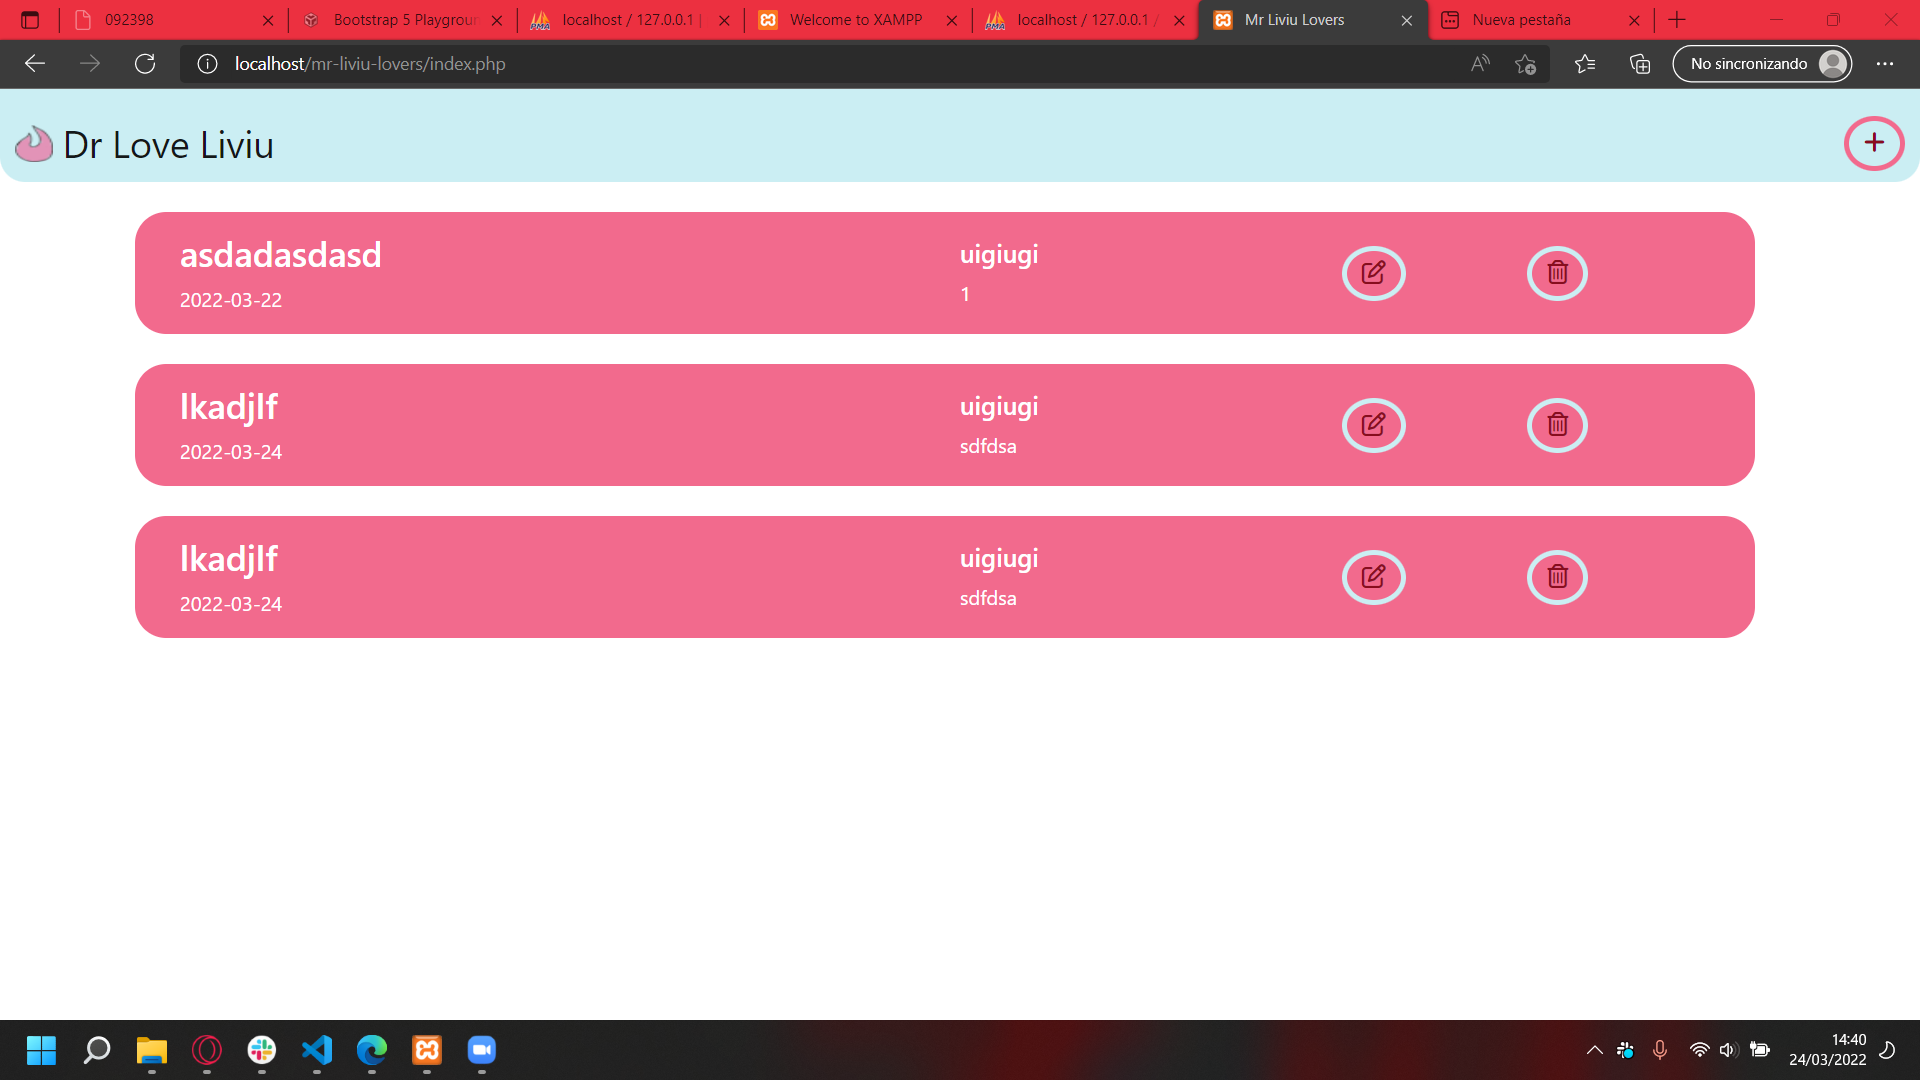
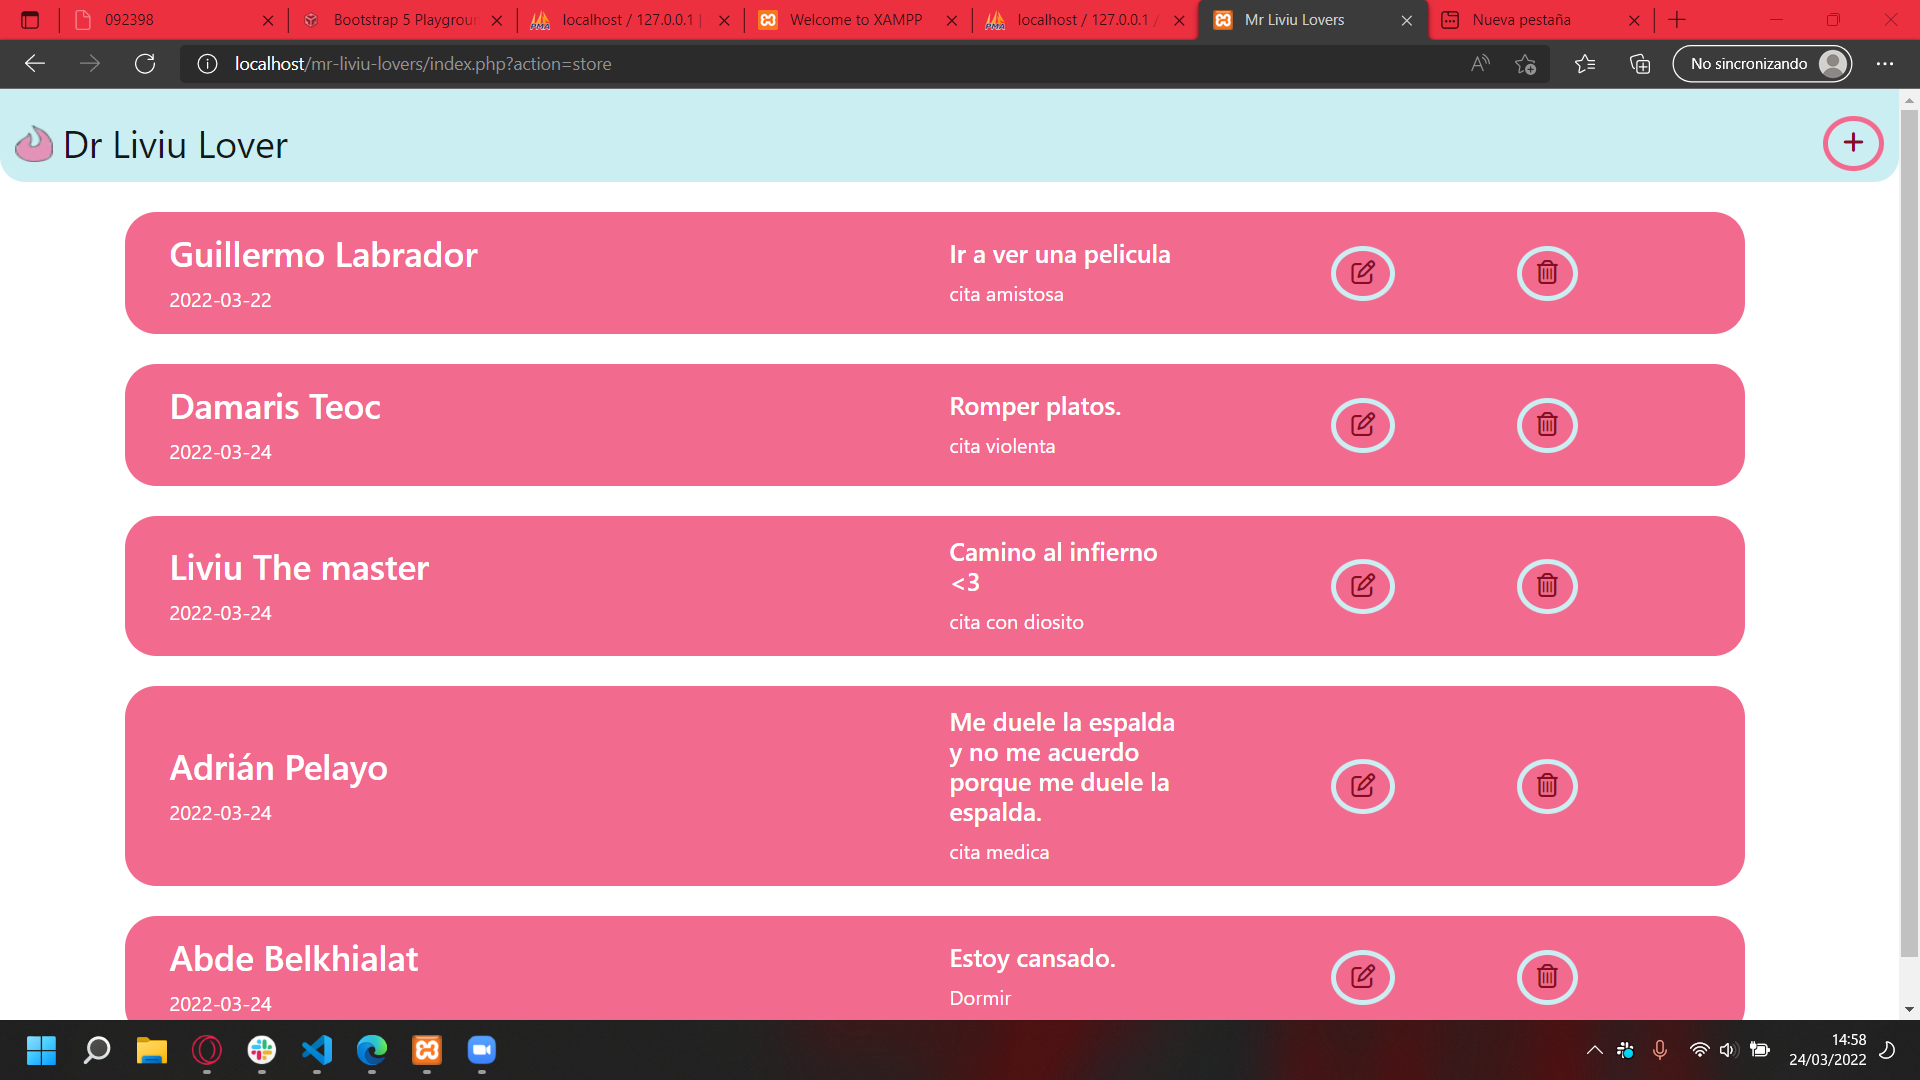
ara-zi-e-acabao

diff --git a/src/Views/LoversList.php b/src/Views/LoversList.php
@@ -12,17 +12,17 @@
         foreach ($data ["lover"] as $lover){
             echo <<<TAG
             <article
-                class="row my-4 px-4 py-3 align-items-center bgPrimary text-white card-radius w-100"
+                class="row my-4 px-4 py-3 align-items-center bgPrimary text-white card-radius w-auto"
             >
-                <div class="col-4 col-xl-6">
+                <div class="col-12 col-md-6">
                     <h3 class="card-title">{$lover->get_people()}</h3>
                     <p class="card-text">{$lover->get_date_time()}</p>
                 </div>
-                <div class="col-4 col-xl-2">
+                <div class="col-12 col-md-2">
                     <h5 class="card-title">{$lover->get_activity()}</h5>
                     <p class="card-text">{$lover->get_type()}</p>
                 </div>
-                <div class="col-4 d-flex justify-content-evenly">
+                <div class="col-12 col-md-4 d-flex justify-content-evenly">
                     <a href="?action=edit&id={$lover->get_id()}" class="btn border-button rounded-circle hover-actions text-hover-actions">
                         <i class="fa-regular fa-pen-to-square icon text-center"></i>
                     </a>

diff --git a/src/Views/editLovers.php b/src/Views/editLovers.php
@@ -7,12 +7,12 @@
         <?php
             require_once("components/header.php");
         ?>
-        <main class="container">
+        <main class="container box">
             <div class="d-flex align-items-center justify-content-center add-box">
                 <p class="px-5 py-3 my-2 montserrat box bgPrimary title text-white">Edit Date</p>
             </div>
-            <div class="row justify-content-center aling-items-center box">
-                <form class="col-sm-4 fredoka bgSecondary form p-4" action="?action=update&id=<?php echo $data["lover"]->get_id() ?>" method="post">
+            <div class="row justify-content-center aling-items-center ">
+                <form class="col-sm-4 fredoka bgSecondary form p-4 box" action="?action=update&id=<?php echo $data["lover"]->get_id() ?>" method="post">
                     <div class="mb-3 form-group">
                         <label for="people" class="form-label">People</label>
                         <input type="text" name="people" required class="form-control box" id="people" aria-describedby="nombre" value=<?php echo $data["lover"]->get_people() ?>>

diff --git a/src/Views/addLover.php b/src/Views/addLover.php
@@ -11,8 +11,8 @@
             <div class="d-flex align-items-center justify-content-center add-box">
                 <p class="px-5 py-3 my-2 montserrat box bgPrimary title text-white">Add Date</p>
             </div>
-            <div class="row justify-content-center aling-items-center box">
-                <form class="col-sm-4 fredoka bgSecondary form p-4" action="?action=store" method="post">
+            <div class="row justify-content-center aling-items-center">
+                <form class="col-sm-4 fredoka bgSecondary form p-4 box" action="?action=store" method="post">
                     <div class="mb-3 form-group">
                         <label for="people" class="form-label">People</label>
                         <input type="text" name="people" required class="form-control box" id="people" aria-describedby="nombre">
